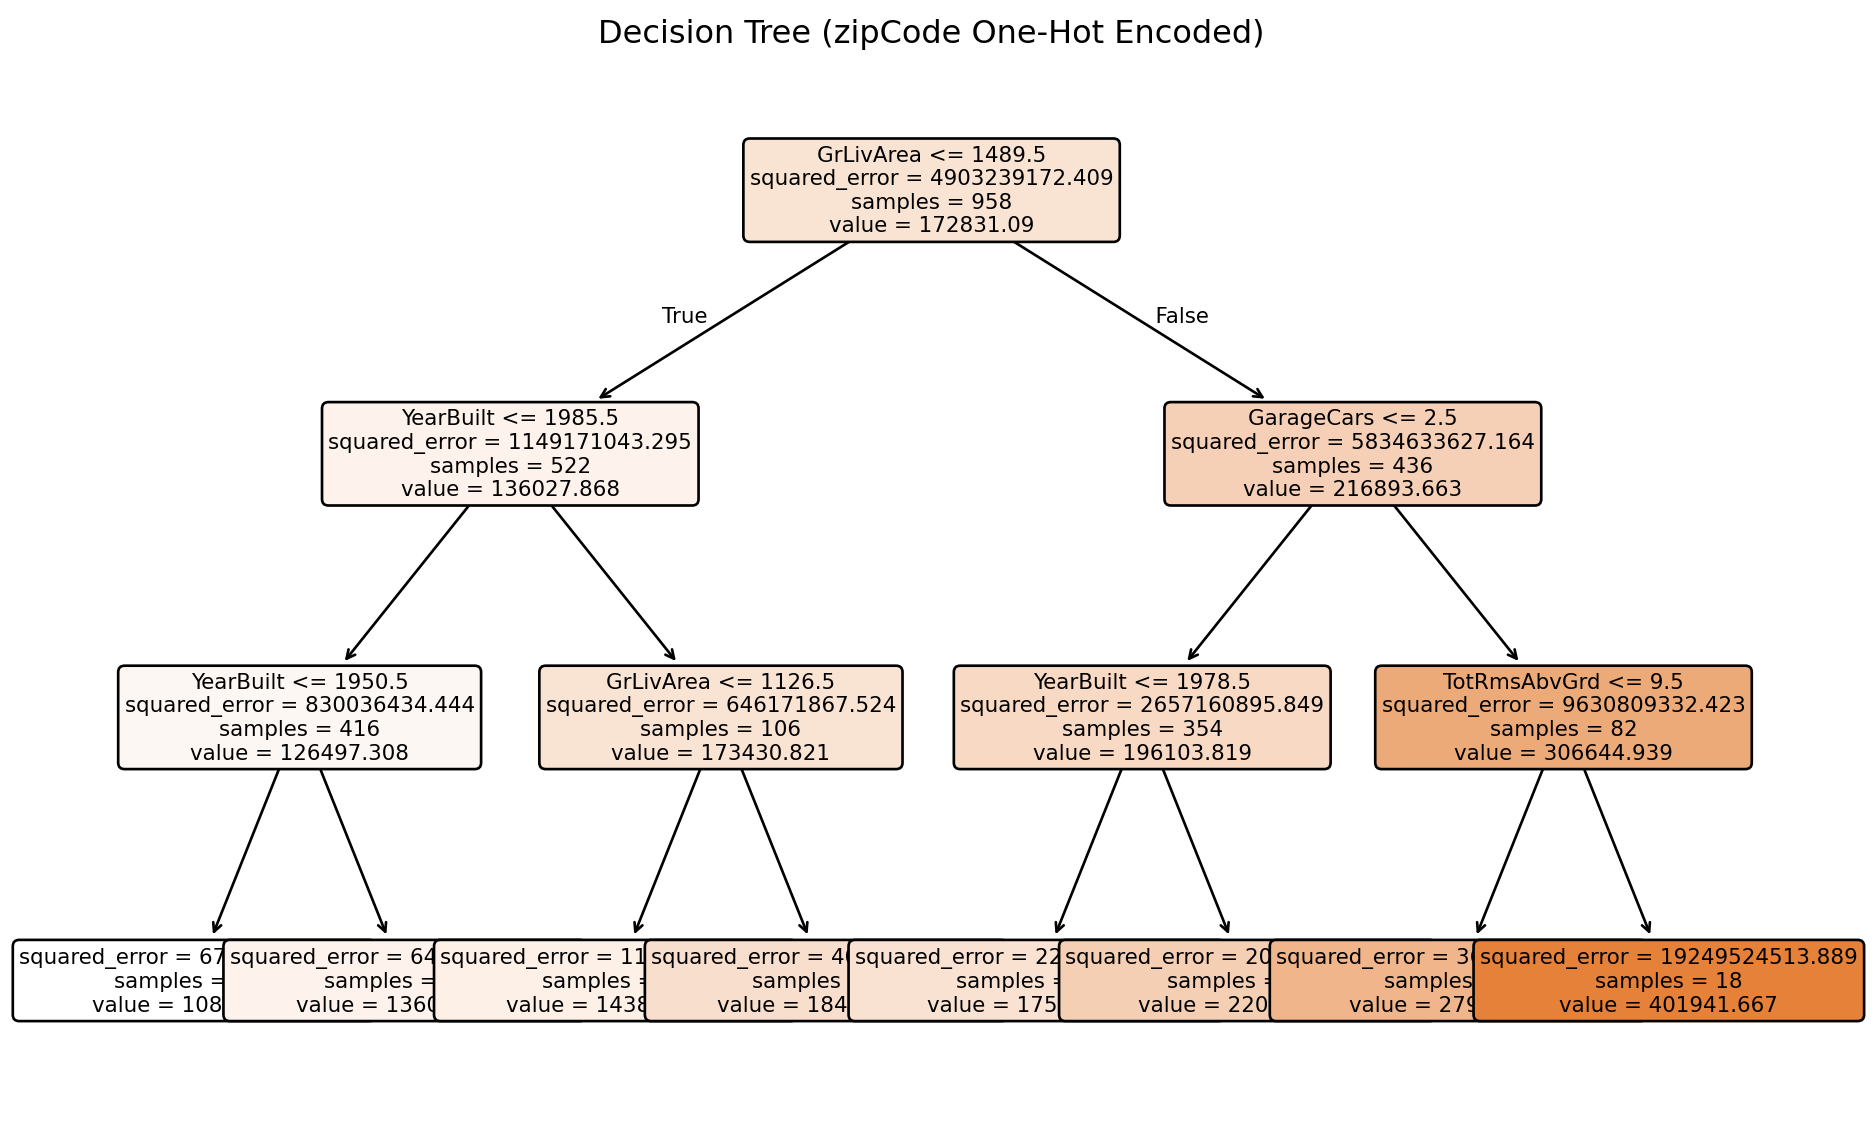
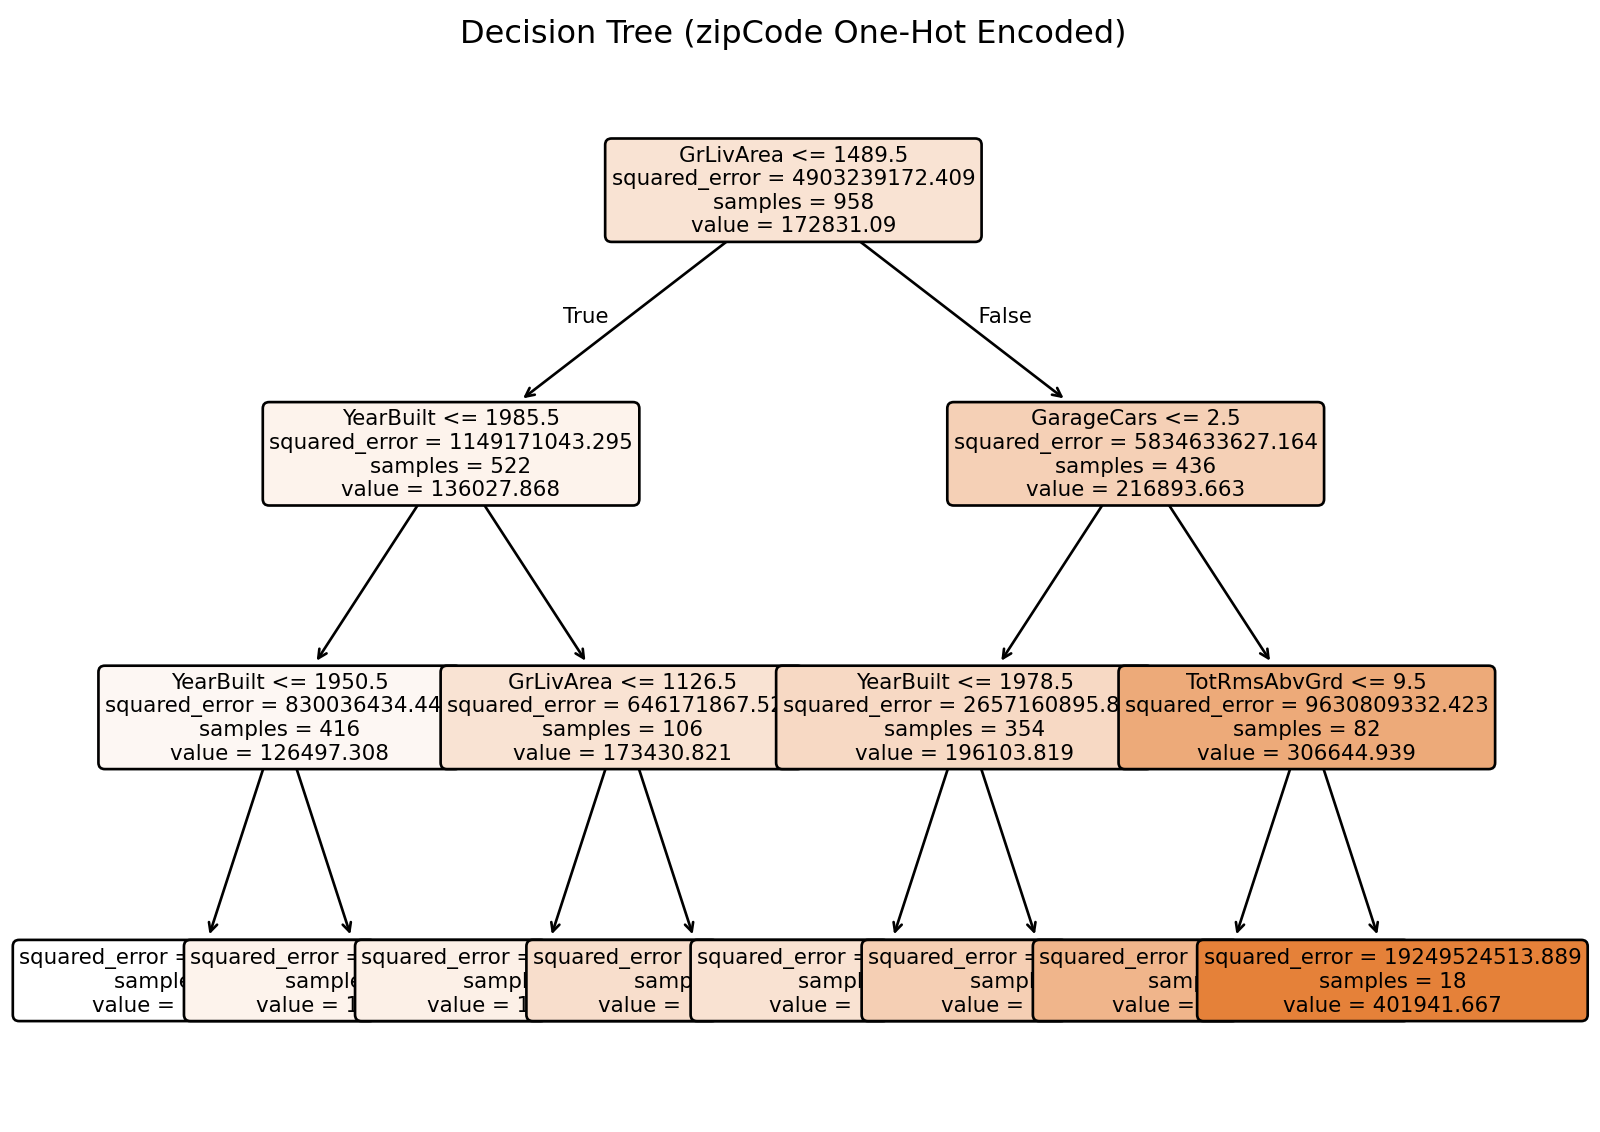
Render HTML with completed discussion questions and analysis

diff --git a/index.html b/index.html
@@ -20,41 +20,6 @@ ul.task-list li input[type="checkbox"] {
   margin: 0 0.8em 0.2em -1em; /* quarto-specific, see https://github.com/quarto-dev/quarto-cli/issues/4556 */ 
   vertical-align: middle;
 }
-/* CSS for syntax highlighting */
-html { -webkit-text-size-adjust: 100%; }
-pre > code.sourceCode { white-space: pre; position: relative; }
-pre > code.sourceCode > span { display: inline-block; line-height: 1.25; }
-pre > code.sourceCode > span:empty { height: 1.2em; }
-.sourceCode { overflow: visible; }
-code.sourceCode > span { color: inherit; text-decoration: inherit; }
-div.sourceCode { margin: 1em 0; }
-pre.sourceCode { margin: 0; }
-@media screen {
-div.sourceCode { overflow: auto; }
-}
-@media print {
-pre > code.sourceCode { white-space: pre-wrap; }
-pre > code.sourceCode > span { text-indent: -5em; padding-left: 5em; }
-}
-pre.numberSource code
-  { counter-reset: source-line 0; }
-pre.numberSource code > span
-  { position: relative; left: -4em; counter-increment: source-line; }
-pre.numberSource code > span > a:first-child::before
-  { content: counter(source-line);
-    position: relative; left: -1em; text-align: right; vertical-align: baseline;
-    border: none; display: inline-block;
-    -webkit-touch-callout: none; -webkit-user-select: none;
-    -khtml-user-select: none; -moz-user-select: none;
-    -ms-user-select: none; user-select: none;
-    padding: 0 4px; width: 4em;
-  }
-pre.numberSource { margin-left: 3em;  padding-left: 4px; }
-div.sourceCode
-  {   }
-@media screen {
-pre > code.sourceCode > span > a:first-child::before { text-decoration: underline; }
-}
 </style>
 
 
@@ -105,20 +70,6 @@ pre > code.sourceCode > span > a:first-child::before { text-decoration: underlin
 <section id="challenge-overview" class="level2">
 <h2 class="anchored" data-anchor-id="challenge-overview">Challenge Overview</h2>
 <p><strong>Your Mission:</strong> Create a simple GitHub Pages site that demonstrates how decision trees measure feature importance and analyzes the critical differences between categorical and numerical variable encoding. You’ll answer two key discussion questions by adding narrative to a pre-built analysis and posting those answers to your GitHub Pages site as a rendered HTML document.</p>
-<div class="callout callout-style-default callout-warning callout-titled">
-<div class="callout-header d-flex align-content-center">
-<div class="callout-icon-container">
-<i class="callout-icon"></i>
-</div>
-<div class="callout-title-container flex-fill">
-<span class="screen-reader-only">Warning</span>⚠ AI Partnership Required
-</div>
-</div>
-<div class="callout-body-container callout-body">
-<p>This challenge pushes boundaries intentionally. You’ll tackle problems that normally require weeks of study, but with Cursor AI as your partner (and your brain keeping it honest), you can accomplish more than you thought possible.</p>
-<p><strong>The new reality:</strong> The four stages of competence are Ignorance → Awareness → Learning → Mastery. AI lets us produce Mastery-level work while operating primarily in the Awareness stage. I focus on awareness training, you leverage AI for execution, and together we create outputs that used to require years of dedicated study.</p>
-</div>
-</div>
 </section>
 <section id="the-decision-tree-problem" class="level2">
 <h2 class="anchored" data-anchor-id="the-decision-tree-problem">The Decision Tree Problem 🎯</h2>
@@ -158,36 +109,6 @@ pre > code.sourceCode > span > a:first-child::before { text-decoration: underlin
 <section id="python" class="level3">
 <h3 class="anchored" data-anchor-id="python">Python</h3>
 <div id="load-and-model-python" class="cell" data-execution_count="1">
-<div class="code-copy-outer-scaffold"><div class="sourceCode cell-code" id="cb1"><pre class="sourceCode python code-with-copy"><code class="sourceCode python"><span id="cb1-1"><a href="#cb1-1" aria-hidden="true" tabindex="-1"></a><span class="im">import</span> pandas <span class="im">as</span> pd</span>
-<span id="cb1-2"><a href="#cb1-2" aria-hidden="true" tabindex="-1"></a><span class="im">import</span> numpy <span class="im">as</span> np</span>
-<span id="cb1-3"><a href="#cb1-3" aria-hidden="true" tabindex="-1"></a><span class="im">import</span> matplotlib.pyplot <span class="im">as</span> plt</span>
-<span id="cb1-4"><a href="#cb1-4" aria-hidden="true" tabindex="-1"></a><span class="im">from</span> sklearn.tree <span class="im">import</span> DecisionTreeRegressor, plot_tree</span>
-<span id="cb1-5"><a href="#cb1-5" aria-hidden="true" tabindex="-1"></a><span class="im">from</span> sklearn.model_selection <span class="im">import</span> train_test_split</span>
-<span id="cb1-6"><a href="#cb1-6" aria-hidden="true" tabindex="-1"></a><span class="im">from</span> sklearn.metrics <span class="im">import</span> mean_squared_error, r2_score</span>
-<span id="cb1-7"><a href="#cb1-7" aria-hidden="true" tabindex="-1"></a><span class="im">import</span> warnings</span>
-<span id="cb1-8"><a href="#cb1-8" aria-hidden="true" tabindex="-1"></a>warnings.filterwarnings(<span class="st">'ignore'</span>)</span>
-<span id="cb1-9"><a href="#cb1-9" aria-hidden="true" tabindex="-1"></a></span>
-<span id="cb1-10"><a href="#cb1-10" aria-hidden="true" tabindex="-1"></a><span class="co"># Load data</span></span>
-<span id="cb1-11"><a href="#cb1-11" aria-hidden="true" tabindex="-1"></a>sales_data <span class="op">=</span> pd.read_csv(<span class="st">"salesPriceData.csv"</span>)</span>
-<span id="cb1-12"><a href="#cb1-12" aria-hidden="true" tabindex="-1"></a></span>
-<span id="cb1-13"><a href="#cb1-13" aria-hidden="true" tabindex="-1"></a><span class="co"># Prepare model data (treating zipCode as numerical)</span></span>
-<span id="cb1-14"><a href="#cb1-14" aria-hidden="true" tabindex="-1"></a>model_vars <span class="op">=</span> [<span class="st">'SalePrice'</span>, <span class="st">'LotArea'</span>, <span class="st">'YearBuilt'</span>, <span class="st">'GrLivArea'</span>, <span class="st">'FullBath'</span>, </span>
-<span id="cb1-15"><a href="#cb1-15" aria-hidden="true" tabindex="-1"></a>              <span class="st">'HalfBath'</span>, <span class="st">'BedroomAbvGr'</span>, <span class="st">'TotRmsAbvGrd'</span>, <span class="st">'GarageCars'</span>, <span class="st">'zipCode'</span>]</span>
-<span id="cb1-16"><a href="#cb1-16" aria-hidden="true" tabindex="-1"></a>model_data <span class="op">=</span> sales_data[model_vars].dropna()</span>
-<span id="cb1-17"><a href="#cb1-17" aria-hidden="true" tabindex="-1"></a></span>
-<span id="cb1-18"><a href="#cb1-18" aria-hidden="true" tabindex="-1"></a><span class="co"># Split data</span></span>
-<span id="cb1-19"><a href="#cb1-19" aria-hidden="true" tabindex="-1"></a>X <span class="op">=</span> model_data.drop(<span class="st">'SalePrice'</span>, axis<span class="op">=</span><span class="dv">1</span>)</span>
-<span id="cb1-20"><a href="#cb1-20" aria-hidden="true" tabindex="-1"></a>y <span class="op">=</span> model_data[<span class="st">'SalePrice'</span>]</span>
-<span id="cb1-21"><a href="#cb1-21" aria-hidden="true" tabindex="-1"></a>X_train, X_test, y_train, y_test <span class="op">=</span> train_test_split(X, y, test_size<span class="op">=</span><span class="fl">0.2</span>, random_state<span class="op">=</span><span class="dv">123</span>)</span>
-<span id="cb1-22"><a href="#cb1-22" aria-hidden="true" tabindex="-1"></a></span>
-<span id="cb1-23"><a href="#cb1-23" aria-hidden="true" tabindex="-1"></a><span class="co"># Build decision tree</span></span>
-<span id="cb1-24"><a href="#cb1-24" aria-hidden="true" tabindex="-1"></a>tree_model <span class="op">=</span> DecisionTreeRegressor(max_depth<span class="op">=</span><span class="dv">3</span>, </span>
-<span id="cb1-25"><a href="#cb1-25" aria-hidden="true" tabindex="-1"></a>                                  min_samples_split<span class="op">=</span><span class="dv">20</span>, </span>
-<span id="cb1-26"><a href="#cb1-26" aria-hidden="true" tabindex="-1"></a>                                  min_samples_leaf<span class="op">=</span><span class="dv">10</span>, </span>
-<span id="cb1-27"><a href="#cb1-27" aria-hidden="true" tabindex="-1"></a>                                  random_state<span class="op">=</span><span class="dv">123</span>)</span>
-<span id="cb1-28"><a href="#cb1-28" aria-hidden="true" tabindex="-1"></a>tree_model.fit(X_train, y_train)</span>
-<span id="cb1-29"><a href="#cb1-29" aria-hidden="true" tabindex="-1"></a></span>
-<span id="cb1-30"><a href="#cb1-30" aria-hidden="true" tabindex="-1"></a><span class="bu">print</span>(<span class="ss">f"Model built with </span><span class="sc">{</span>tree_model<span class="sc">.</span>get_n_leaves()<span class="sc">}</span><span class="ss"> terminal nodes"</span>)</span></code></pre></div><button title="Copy to Clipboard" class="code-copy-button"><i class="bi"></i></button></div>
 <div class="cell-output cell-output-stdout">
 <pre><code>Model built with 8 terminal nodes</code></pre>
 </div>
@@ -198,22 +119,11 @@ pre > code.sourceCode > span > a:first-child::before { text-decoration: underlin
 <h2 class="anchored" data-anchor-id="tree-visualization">Tree Visualization</h2>
 <section id="python-1" class="level3">
 <h3 class="anchored" data-anchor-id="python-1">Python</h3>
-<div id="cell-visualize-tree-python" class="cell" data-fig-height="6" data-fig-width="10" data-execution_count="2">
-<div class="code-copy-outer-scaffold"><div class="sourceCode cell-code" id="cb3"><pre class="sourceCode python code-with-copy"><code class="sourceCode python"><span id="cb3-1"><a href="#cb3-1" aria-hidden="true" tabindex="-1"></a><span class="co"># Visualize tree</span></span>
-<span id="cb3-2"><a href="#cb3-2" aria-hidden="true" tabindex="-1"></a>plt.figure(figsize<span class="op">=</span>(<span class="dv">10</span>, <span class="dv">6</span>))</span>
-<span id="cb3-3"><a href="#cb3-3" aria-hidden="true" tabindex="-1"></a>plot_tree(tree_model, </span>
-<span id="cb3-4"><a href="#cb3-4" aria-hidden="true" tabindex="-1"></a>          feature_names<span class="op">=</span>X_train.columns,</span>
-<span id="cb3-5"><a href="#cb3-5" aria-hidden="true" tabindex="-1"></a>          filled<span class="op">=</span><span class="va">True</span>, </span>
-<span id="cb3-6"><a href="#cb3-6" aria-hidden="true" tabindex="-1"></a>          rounded<span class="op">=</span><span class="va">True</span>,</span>
-<span id="cb3-7"><a href="#cb3-7" aria-hidden="true" tabindex="-1"></a>          fontsize<span class="op">=</span><span class="dv">10</span>,</span>
-<span id="cb3-8"><a href="#cb3-8" aria-hidden="true" tabindex="-1"></a>          max_depth<span class="op">=</span><span class="dv">3</span>)</span>
-<span id="cb3-9"><a href="#cb3-9" aria-hidden="true" tabindex="-1"></a>plt.title(<span class="st">"Decision Tree (zipCode as Numerical)"</span>)</span>
-<span id="cb3-10"><a href="#cb3-10" aria-hidden="true" tabindex="-1"></a>plt.tight_layout()</span>
-<span id="cb3-11"><a href="#cb3-11" aria-hidden="true" tabindex="-1"></a>plt.show()</span></code></pre></div><button title="Copy to Clipboard" class="code-copy-button"><i class="bi"></i></button></div>
+<div id="cell-visualize-tree-python" class="cell" data-fig-height="6" data-fig-width="8.5" data-execution_count="2">
 <div class="cell-output cell-output-display">
 <div>
 <figure class="figure">
-<p><img src="index_files/figure-html/visualize-tree-python-output-1.png" id="visualize-tree-python" width="942" height="566" class="figure-img"></p>
+<p><img src="index_files/figure-html/visualize-tree-python-output-1.png" id="visualize-tree-python" width="804" height="566" class="figure-img"></p>
 </figure>
 </div>
 </div>
@@ -272,22 +182,11 @@ pre > code.sourceCode > span > a:first-child::before { text-decoration: underlin
 </section>
 <section id="python-4" class="level3">
 <h3 class="anchored" data-anchor-id="python-4">Python</h3>
-<div id="cell-visualize-tree-cat-python" class="cell" data-fig-height="6" data-fig-width="10" data-execution_count="6">
-<div class="code-copy-outer-scaffold"><div class="sourceCode cell-code" id="cb4"><pre class="sourceCode python code-with-copy"><code class="sourceCode python"><span id="cb4-1"><a href="#cb4-1" aria-hidden="true" tabindex="-1"></a><span class="co"># Visualize tree with one-hot encoded zipCode</span></span>
-<span id="cb4-2"><a href="#cb4-2" aria-hidden="true" tabindex="-1"></a>plt.figure(figsize<span class="op">=</span>(<span class="dv">10</span>, <span class="dv">6</span>))</span>
-<span id="cb4-3"><a href="#cb4-3" aria-hidden="true" tabindex="-1"></a>plot_tree(tree_model_cat, </span>
-<span id="cb4-4"><a href="#cb4-4" aria-hidden="true" tabindex="-1"></a>          feature_names<span class="op">=</span>X_train_cat.columns,</span>
-<span id="cb4-5"><a href="#cb4-5" aria-hidden="true" tabindex="-1"></a>          filled<span class="op">=</span><span class="va">True</span>, </span>
-<span id="cb4-6"><a href="#cb4-6" aria-hidden="true" tabindex="-1"></a>          rounded<span class="op">=</span><span class="va">True</span>,</span>
-<span id="cb4-7"><a href="#cb4-7" aria-hidden="true" tabindex="-1"></a>          fontsize<span class="op">=</span><span class="dv">8</span>,</span>
-<span id="cb4-8"><a href="#cb4-8" aria-hidden="true" tabindex="-1"></a>          max_depth<span class="op">=</span><span class="dv">4</span>)</span>
-<span id="cb4-9"><a href="#cb4-9" aria-hidden="true" tabindex="-1"></a>plt.title(<span class="st">"Decision Tree (zipCode One-Hot Encoded)"</span>)</span>
-<span id="cb4-10"><a href="#cb4-10" aria-hidden="true" tabindex="-1"></a>plt.tight_layout()</span>
-<span id="cb4-11"><a href="#cb4-11" aria-hidden="true" tabindex="-1"></a>plt.show()</span></code></pre></div><button title="Copy to Clipboard" class="code-copy-button"><i class="bi"></i></button></div>
+<div id="cell-visualize-tree-cat-python" class="cell" data-fig-height="6" data-fig-width="8.5" data-execution_count="6">
 <div class="cell-output cell-output-display">
 <div>
 <figure class="figure">
-<p><img src="index_files/figure-html/visualize-tree-cat-python-output-1.png" id="visualize-tree-cat-python" width="938" height="566" class="figure-img"></p>
+<p><img src="index_files/figure-html/visualize-tree-cat-python-output-1.png" id="visualize-tree-cat-python" width="800" height="566" class="figure-img"></p>
 </figure>
 </div>
 </div>
@@ -512,45 +411,6 @@ pre > code.sourceCode > span > a:first-child::before { text-decoration: underlin
 <p><strong>Practical recommendation:</strong> For production work with categorical variables, use CatBoost or LightGBM instead of scikit-learn’s base decision trees. Both libraries rival or exceed R’s categorical handling while maintaining Python’s ecosystem advantages. The <a href="https://contrib.scikit-learn.org/category_encoders/">category_encoders</a> library also provides sophisticated encoding methods for sklearn compatibility, including target encoding that preserves more information than one-hot encoding.</p>
 <hr>
 </section>
-</section>
-<section id="submission-checklist" class="level2">
-<h2 class="anchored" data-anchor-id="submission-checklist">Submission Checklist ✅</h2>
-<p><strong>Minimum Requirements (Required for Any Points):</strong></p>
-<ul class="task-list">
-<li><label><input type="checkbox">Forked starter repository from <a href="https://github.com/flyaflya/decTreeChallenge.git">https://github.com/flyaflya/decTreeChallenge.git</a></label></li>
-<li><label><input type="checkbox">Cloned repository locally using Cursor (or VS Code)</label></li>
-<li><label><input type="checkbox">Added thoughtful narrative answers to both discussion questions</label></li>
-<li><label><input type="checkbox">Document rendered to HTML successfully</label></li>
-<li><label><input type="checkbox">HTML files uploaded to your forked repository</label></li>
-<li><label><input type="checkbox">GitHub Pages enabled and working</label></li>
-<li><label><input type="checkbox">Site accessible at <code>https://[your-username].github.io/decTreeChallenge/</code></label></li>
-</ul>
-<p><strong>75% Grade Requirements:</strong></p>
-<ul class="task-list">
-<li><label><input type="checkbox">Clear, well-reasoned answer to question 1 about numerical vs categorical encoding</label></li>
-</ul>
-<p><strong>85% Grade Requirements:</strong></p>
-<ul class="task-list">
-<li><label><input type="checkbox">Thorough analysis of question 2 with investigation of official documentation</label></li>
-</ul>
-<p><strong>95% Grade Requirements:</strong></p>
-<ul class="task-list">
-<li><label><input type="checkbox">Professional presentation style appropriate for business audience.</label></li>
-<li><label><input type="checkbox">Specific quote from official documentation of <code>sklearn.tree.DecisionTreeRegressor</code> supporting your analysis</label></li>
-</ul>
-<p><strong>100% Grade Requirements:</strong></p>
-<ul class="task-list">
-<li><label><input type="checkbox">Note on the current state of the art in decision tree implementation for categorical variables in Python.</label></li>
-</ul>
-<p><strong>Report Quality (Critical for Higher Grades):</strong></p>
-<ul class="task-list">
-<li><label><input type="checkbox">Clear, engaging narrative that tells a story</label></li>
-<li><label><input type="checkbox">Focus on the most interesting findings about decision tree feature importance</label></li>
-<li><label><input type="checkbox">Professional writing style (no AI-generated fluff)</label></li>
-<li><label><input type="checkbox">Concise analysis that gets to the point</label></li>
-<li><label><input type="checkbox">Practical insights that would help a real data scientist</label></li>
-<li><label><input type="checkbox">Documentation-based analysis for technical questions</label></li>
-</ul>
 </section>
 </section>
 
